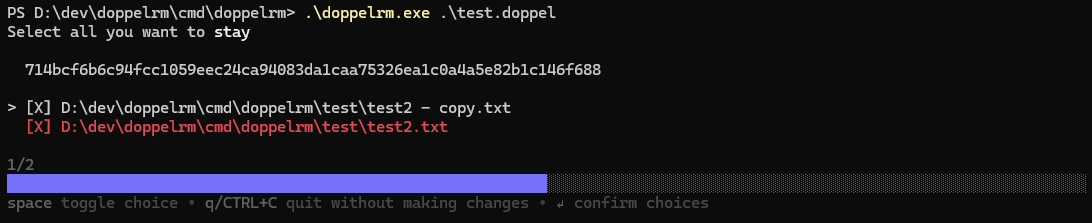
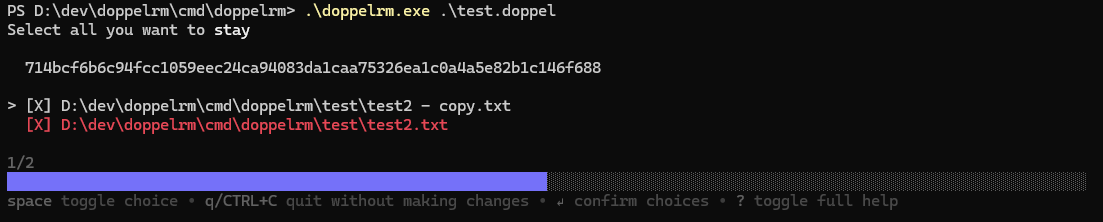
added help toggle to footer

diff --git a/cmd/doppelrm/bubbletea_model.go b/cmd/doppelrm/bubbletea_model.go
@@ -80,12 +80,12 @@ func defaultKeyMap() *keyMap {
 }
 
 func (k keyMap) ShortHelp() []key.Binding {
-	return []key.Binding{k.toggle, k.quit, k.enter}
+	return []key.Binding{k.toggle, k.quit, k.enter, k.help}
 }
 
 func (k keyMap) FullHelp() [][]key.Binding {
 	return [][]key.Binding{
-		{k.toggle, k.quit, k.enter},
+		{k.toggle, k.quit, k.enter, k.help},
 		{k.up, k.down, k.left, k.right},
 	}
 }
